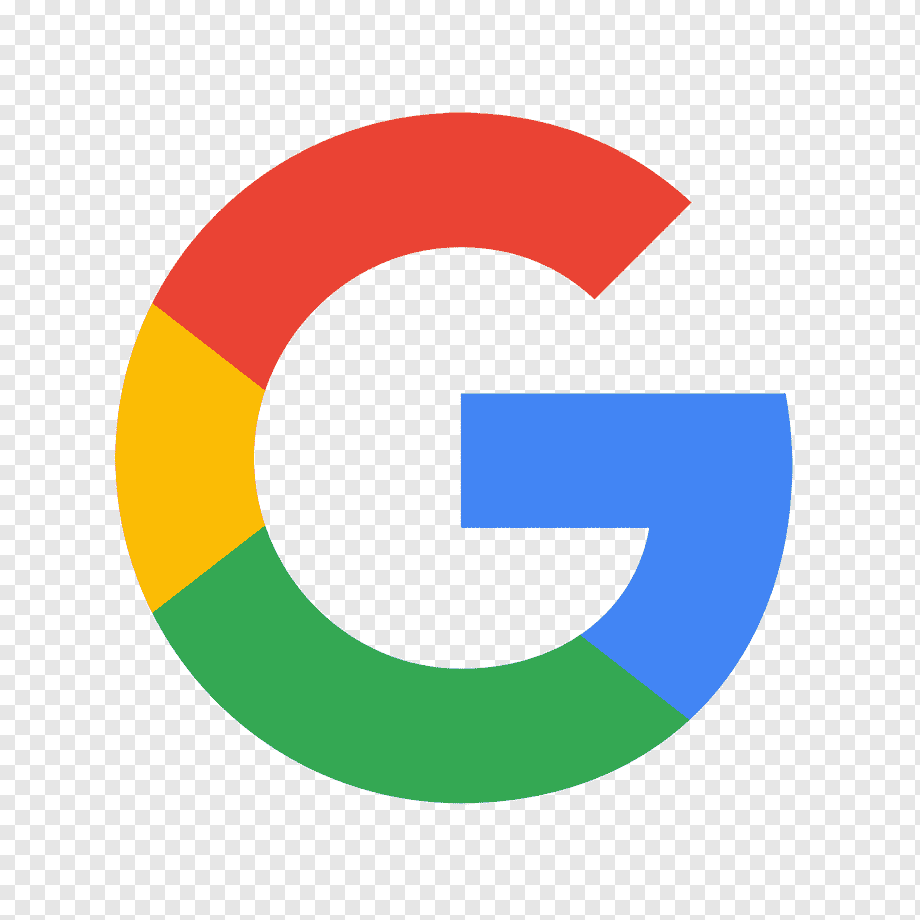
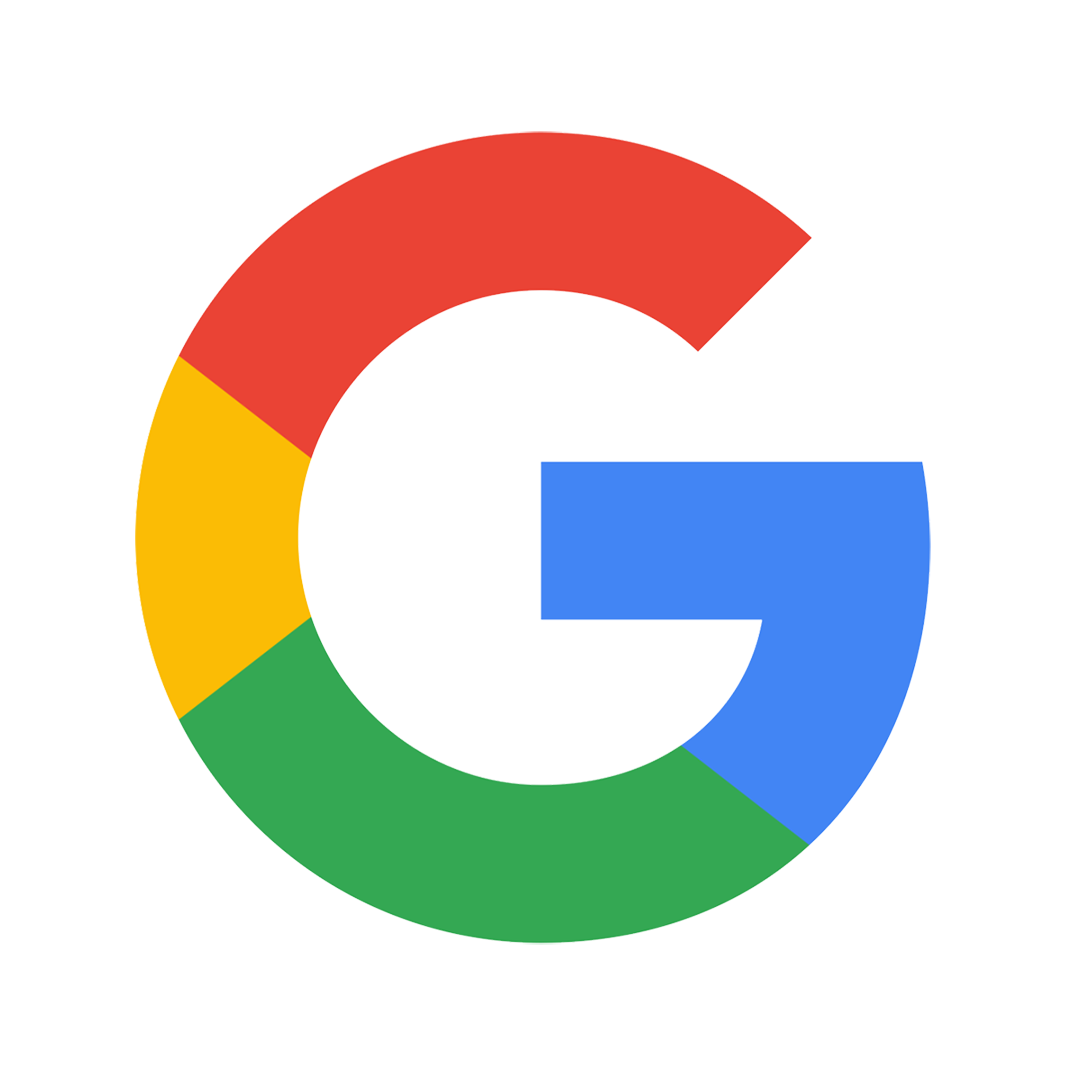
fix button spacing and update googleIcon

diff --git a/frontend/src/Components/login.css b/frontend/src/Components/login.css
@@ -157,17 +157,20 @@ a {
   justify-content: center;
   width: 420px;
   height: 50px;
-  background: #4385f4;
+  background: #ffffff;
   position: relative;
   font-size: 17px;
   cursor: pointer;
   margin: auto;
   border-radius: 6px;
+  border-style: solid;
+  border-color: #000000;
+  border-width: 1px;
 }
 
 
 .googleContainer p {
-  color: #FFFFFF;
+  color: #000000;
   margin-left: 10px;
 }
 
@@ -181,7 +184,7 @@ a {
   position: relative;
   font-size: 17px;
   cursor: pointer;
-  margin-top: 30px;
+  margin-top: 20px;
   margin-left: auto;
   margin-right: auto;
   border-radius: 6px;
@@ -190,6 +193,7 @@ a {
 .facebookContainer p {
   color: #FFFFFF;
   margin-left: 10px;
+  font-weight: bold;
 }
 
 .facebookContainer img,
@@ -205,10 +209,10 @@ a {
 
 .orOAuth {
   display: flex;
-  flex-direction: row;
   justify-content: center;
 }
 
 .orOAuth p {
   font-size: 20px;
+  margin: 13px;
 }

diff --git a/frontend/src/components/login.css b/frontend/src/components/login.css
@@ -157,17 +157,20 @@ a {
   justify-content: center;
   width: 420px;
   height: 50px;
-  background: #4385f4;
+  background: #ffffff;
   position: relative;
   font-size: 17px;
   cursor: pointer;
   margin: auto;
   border-radius: 6px;
+  border-style: solid;
+  border-color: #000000;
+  border-width: 1px;
 }
 
 
 .googleContainer p {
-  color: #FFFFFF;
+  color: #000000;
   margin-left: 10px;
 }
 
@@ -181,7 +184,7 @@ a {
   position: relative;
   font-size: 17px;
   cursor: pointer;
-  margin-top: 30px;
+  margin-top: 20px;
   margin-left: auto;
   margin-right: auto;
   border-radius: 6px;
@@ -190,6 +193,7 @@ a {
 .facebookContainer p {
   color: #FFFFFF;
   margin-left: 10px;
+  font-weight: bold;
 }
 
 .facebookContainer img,
@@ -205,10 +209,10 @@ a {
 
 .orOAuth {
   display: flex;
-  flex-direction: row;
   justify-content: center;
 }
 
 .orOAuth p {
   font-size: 20px;
+  margin: 13px;
 }

diff --git a/frontend/src/Components/loginForm.tsx b/frontend/src/Components/loginForm.tsx
@@ -68,7 +68,7 @@ export const LoginForm = () => {
                   <button className='login_button' type="submit">Log in</button>
               </div>
               <div className='orOAuth'>
-                <p>or</p>
+                <p>OR</p>
               </div>
               <div className='googleContainer' onClick={handleGoogleOAuth}>
                 <img src={googleIcon} alt='googleIcon'/>

diff --git a/frontend/src/components/loginForm.tsx b/frontend/src/components/loginForm.tsx
@@ -68,7 +68,7 @@ export const LoginForm = () => {
                   <button className='login_button' type="submit">Log in</button>
               </div>
               <div className='orOAuth'>
-                <p>or</p>
+                <p>OR</p>
               </div>
               <div className='googleContainer' onClick={handleGoogleOAuth}>
                 <img src={googleIcon} alt='googleIcon'/>
